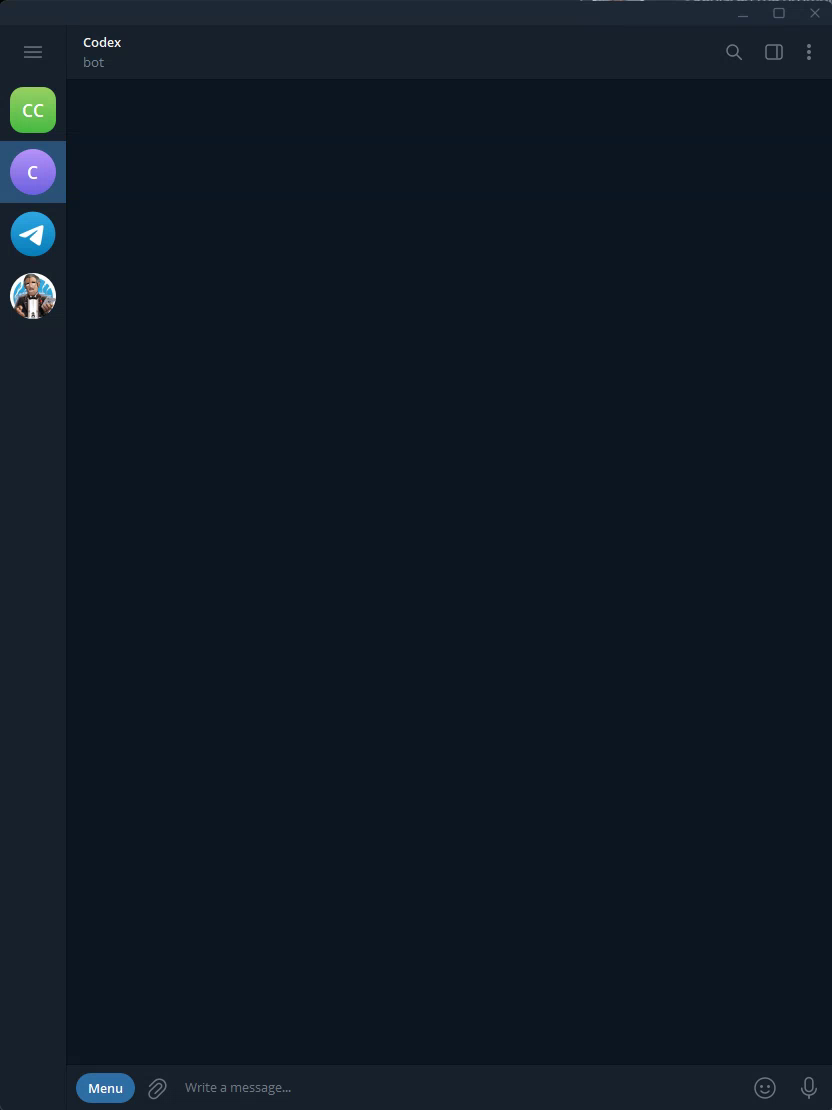
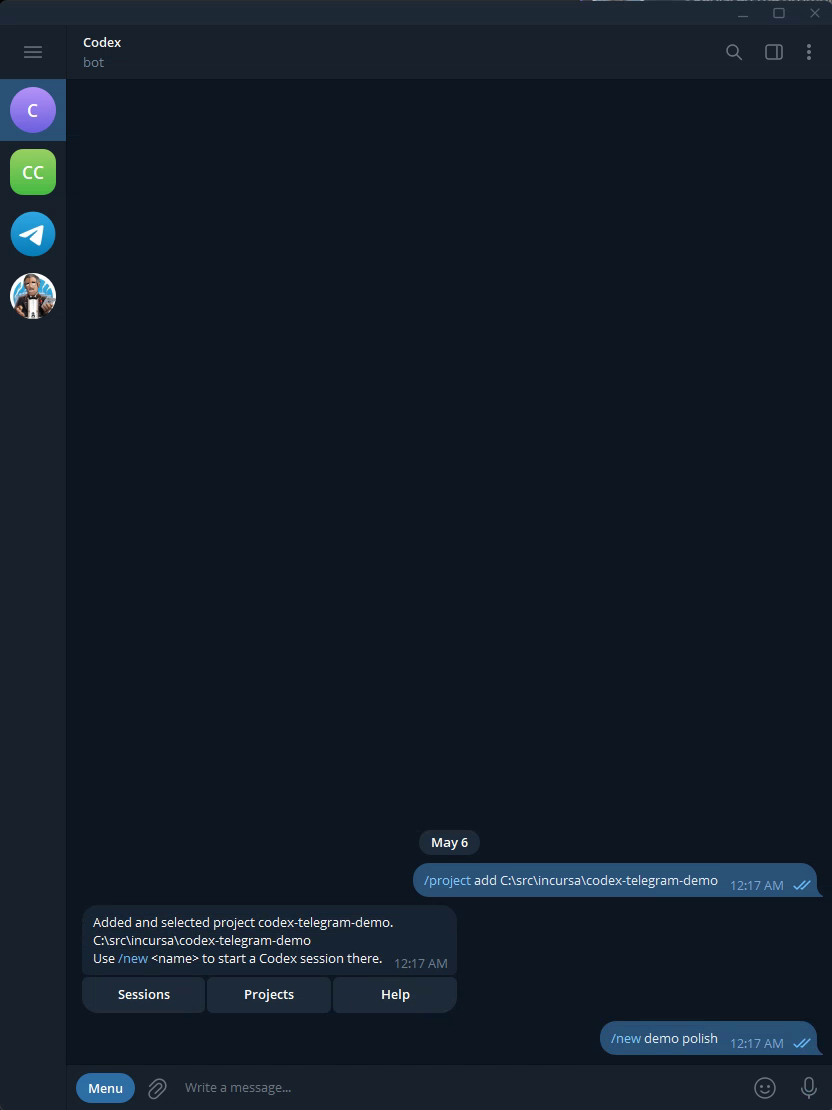
Improve demo video link

diff --git a/README.md b/README.md
@@ -8,7 +8,7 @@ Use it when you want to start, steer, and inspect Codex work from your phone wit
 
 Watch a two-minute private-chat demo showing a local Codex session controlled from Telegram with project selection, text prompts, and voice input.
 
-[![Watch the Codex Telegram demo](docs/assets/codex-telegram-demo-thumbnail.png)](docs/assets/codex-telegram-demo.mp4)
+[![Watch the Codex Telegram demo](docs/assets/codex-telegram-demo-thumbnail.png)](https://github.com/incursa/codex-telegram/raw/main/docs/assets/codex-telegram-demo.mp4)
 
 See [menus and screenshots](docs/menus.md) for the full screenshot plan.
 
